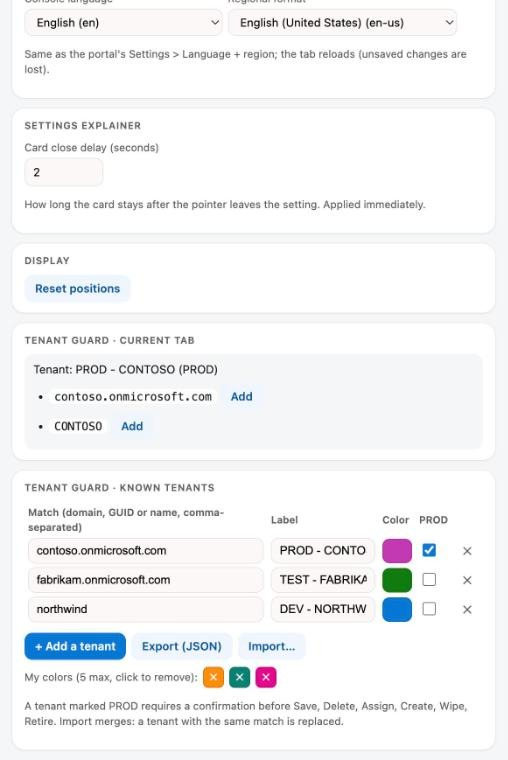
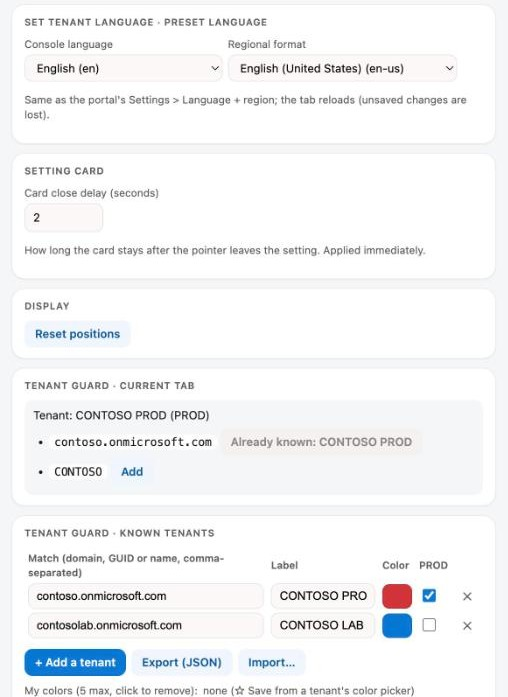
Menu: delay card titled "Setting card" (applies to all three card modules), screenshot 09 updated (FR, EN)

diff --git a/tenant-compass/shared/i18n.js b/tenant-compass/shared/i18n.js
@@ -27,7 +27,7 @@ const I18N = {
     'f.settingsExplainer.desc': 'Même carte, section explication : texte rédigé, page Learn en direct, valeurs, valeur par défaut. Activable seule.',
     'f.oibRecommendations': 'OpenIntuneBaseline',
     'f.oibRecommendations.desc': 'Même carte, section OIB : valeur configurée par la baseline communautaire OpenIntuneBaseline (SkipToTheEndpoint, GPL-3.0) et stratégie concernée. Activable seule.',
-    'se.title': 'Settings Explainer',
+    'se.title': 'Carte de paramètre',
     'se.delay': 'Délai avant fermeture de la carte (secondes)',
     'se.delay.hint': 'Temps pendant lequel la carte reste affichée après avoir quitté le paramètre. Pris en compte immédiatement.',
     'f.assignmentLens': 'Assignment Lens',
@@ -100,7 +100,7 @@ const I18N = {
     'f.settingsExplainer.desc': 'Same card, explanation section: written text, live Learn page, values, default. Can be used on its own.',
     'f.oibRecommendations': 'OpenIntuneBaseline',
     'f.oibRecommendations.desc': 'Same card, OIB section: value set by the OpenIntuneBaseline community baseline (SkipToTheEndpoint, GPL-3.0) and the policy concerned. Can be used on its own.',
-    'se.title': 'Settings Explainer',
+    'se.title': 'Setting card',
     'se.delay': 'Card close delay (seconds)',
     'se.delay.hint': 'How long the card stays after the pointer leaves the setting. Applied immediately.',
     'f.assignmentLens': 'Assignment Lens',

diff --git a/tenant-compass/ARCHITECTURE.md b/tenant-compass/ARCHITECTURE.md
@@ -76,7 +76,7 @@ tenant-compass/
 │       └── OIB-LICENSE.txt       Texte de la GPL-3.0
 ├── settings-explainer/
 │   ├── page-hook.js              Copie de celui de Setting Inspector + champs d'explication (description, options, défaut, risque) ; attribut data-se-def (MAIN world)
-│   ├── content.js                Carte : explication puis détails Setting Inspector, ancrée au bord droit, délai de fermeture réglable (ISOLATED world)
+│   ├── content.js                Carte de paramètre : sections OIB, explication et détails selon les modules actifs, ancrée au bord droit, délai de fermeture réglable (ISOLATED world)
 │   ├── lib.js                    lib.js de Setting Inspector + slim() étendu, explain(), learnTarget(), learnGpo()
 │   ├── csp.js                    Analyse d'une page CSP Learn (marqueurs <!-- X-Section-Begin -->), findDoc(), learnUrl() (service worker)
 │   ├── background.js             Importé par le service worker : lecture des pages Learn, cache 7 jours
@@ -462,7 +462,7 @@ Le paramètre `l=` est un comportement **observé** du portail, **non documenté
 
 - **En-tête** : icône, titre, sélecteur **FR / EN** (`[data-lang]`, `aria-pressed`), bouton **⚙** (`#gear`).
 - **Vue principale** : une ligne de pastilles sans carte (`.strip` > `#active-list.chips`), une par fonction active : nom, description en infobulle (`title`), et une action rapide en icône dans la pastille si `ACTIONS[clé]` existe (`changeSnapshot` → 📋 journal). Set Tenant Language n'apparaît que par son action : bouton « 🌐 <LANGUE> » (section 4.6). Message `#none` si aucune fonction n'est active. Sous les pastilles, le bouton de rechargement `#reload-btn` (voir 5.2). Puis, si Tenant Guard est actif, les cartes « onglet actuel » (`#current` : signaux détectés, bouton « Référencer ») et « tenants référencés » (tableau, export, import, mes couleurs), modifiables sans passer par ⚙.
-- **Paramètres** (⚙ bascule `#settings`, affiché juste sous les pastilles) : bascules des fonctions avec description (`#toggles`, générées depuis `DEFAULTS` ; Settings Explainer en retrait sous Setting Inspector), carte Settings Explainer (`.se-only`, délai avant fermeture de la carte), carte Set Tenant Language (`.pl-only`, deux listes) et carte « Affichage » avec « Positions par défaut ».
+- **Paramètres** (⚙ bascule `#settings`, affiché juste sous les pastilles) : bascules des fonctions avec description (`#toggles`, générées depuis `DEFAULTS` ; Settings Explainer en retrait sous Setting Inspector), carte « Carte de paramètre » (`.se-only`, délai avant fermeture de la carte, affichée dès qu'un des trois modules est actif), carte Set Tenant Language (`.pl-only`, deux listes) et carte « Affichage » avec « Positions par défaut ».
 - Les cartes `.tg-only` (onglet actuel et tenants) sont masquées si Tenant Guard est désactivé ; la carte `.pl-only` si Set Tenant Language l'est.
 - Changer de langue appelle `setLang()`, pose le drapeau `sessionStorage` `langChanged` puis `location.reload()` : les textes de `tenant-guard/options.js` sont construits une seule fois, après `i18nReady` (langue enregistrée connue). Au rechargement, le drapeau est consommé et affiche `#reload-btn`.
 

diff --git a/tenant-compass/README.md b/tenant-compass/README.md
@@ -73,7 +73,7 @@ Clic sur l'icône de l'extension. Une ligne de pastilles montre les fonctions ac
 
 | Paramètres (⚙), fonctions | Paramètres (⚙), suite |
 |---|---|
-| ![Paramètres : bascules des fonctions, Settings Explainer et OpenIntuneBaseline en retrait sous Setting Inspector](docs/img/readme/fr/08-menu-parametres.jpg) | ![Paramètres : langue prédéfinie, délai de la carte Settings Explainer, positions par défaut](docs/img/readme/fr/09-menu-parametres-suite.jpg) |
+| ![Paramètres : bascules des fonctions, Settings Explainer et OpenIntuneBaseline en retrait sous Setting Inspector](docs/img/readme/fr/08-menu-parametres.jpg) | ![Paramètres : langue prédéfinie, délai de la carte de paramètre, positions par défaut](docs/img/readme/fr/09-menu-parametres-suite.jpg) |
 
 *Menu rendu avec le code réel de `popup.html` et des tenants fictifs (Contoso) : la page de l'extension ne peut pas être capturée par l'outil d'automatisation.*
 
@@ -83,7 +83,7 @@ Clic sur l'icône de l'extension. Une ligne de pastilles montre les fonctions ac
 - **⚙ Paramètres** (s'ouvrent sous les pastilles) :
   - **Fonctions** : une case par fonction, avec sa description. Une fonction décochée n'injecte plus aucun script. **Settings Explainer** et **OpenIntuneBaseline** apparaissent en retrait sous Setting Inspector : ce sont les trois sections de la même carte de paramètre, chacune activable seule, sans lien entre elles.
   - **Set Tenant Language · langue prédéfinie** : langue de la console et format régional appliqués par la pastille 🌐.
-  - **Settings Explainer** : délai avant fermeture de la carte, en secondes (2 par défaut, de 0 à 60), pris en compte sans recharger le portail.
+  - **Carte de paramètre** : délai avant fermeture de la carte (Setting Inspector, Settings Explainer, OpenIntuneBaseline), en secondes (2 par défaut, de 0 à 60), pris en compte sans recharger le portail.
   - **Affichage** : **Positions par défaut** replace les boutons et panneaux en bas à gauche.
 - **Tenant Guard · tenants référencés** (vue principale) : correspondance, étiquette, couleur, PROD.
   - **Exporter (JSON)** : télécharge `tenant-guard-AAAA-MM-JJ.json` (`{ rules: [{ match, label, color, prod }], customColors: ["#rrggbb"] }`).

diff --git a/tenant-compass/README.en.md b/tenant-compass/README.en.md
@@ -73,7 +73,7 @@ Click the extension icon. A row of pills shows the active features (description 
 
 | Settings (⚙), features | Settings (⚙), continued |
 |---|---|
-| ![Settings: feature toggles, Settings Explainer and OpenIntuneBaseline indented under Setting Inspector](docs/img/readme/en/08-menu-parametres.jpg) | ![Settings: preset language, Settings Explainer card delay, reset positions](docs/img/readme/en/09-menu-parametres-suite.jpg) |
+| ![Settings: feature toggles, Settings Explainer and OpenIntuneBaseline indented under Setting Inspector](docs/img/readme/en/08-menu-parametres.jpg) | ![Settings: preset language, setting card delay, reset positions](docs/img/readme/en/09-menu-parametres-suite.jpg) |
 
 *Menu rendered with the actual `popup.html` code and fictitious tenants (Contoso): the extension page cannot be captured by the automation tool.*
 
@@ -83,7 +83,7 @@ Click the extension icon. A row of pills shows the active features (description 
 - **⚙ Settings** (open under the pills):
   - **Features**: one checkbox per feature, with its description. A cleared feature injects no script at all. **Settings Explainer** and **OpenIntuneBaseline** are indented under Setting Inspector: they are the three sections of the same setting card, each usable on its own, independent of each other.
   - **Set Tenant Language · preset language**: console language and regional format applied by the 🌐 pill.
-  - **Settings Explainer**: card close delay, in seconds (2 by default, 0 to 60), applied without reloading the portal.
+  - **Setting card**: card close delay (Setting Inspector, Settings Explainer, OpenIntuneBaseline), in seconds (2 by default, 0 to 60), applied without reloading the portal.
   - **Display**: **Reset positions** moves the buttons and panels back to the bottom left.
 - **Tenant Guard · known tenants** (main view): match, label, color, PROD.
   - **Export (JSON)**: downloads `tenant-guard-YYYY-MM-DD.json` (`{ rules: [{ match, label, color, prod }], customColors: ["#rrggbb"] }`).
